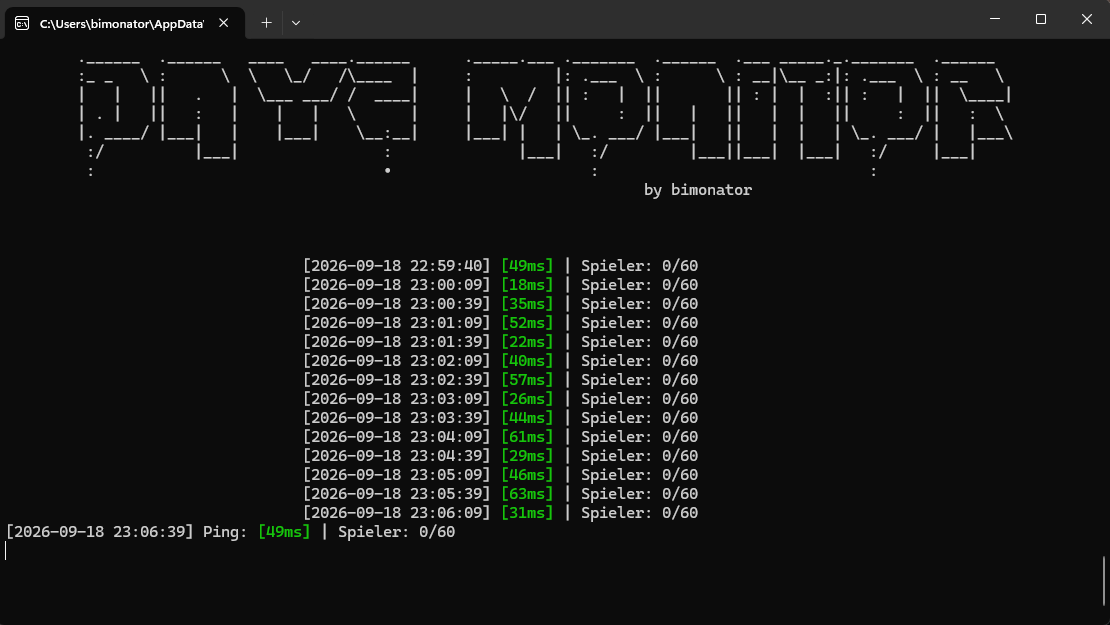
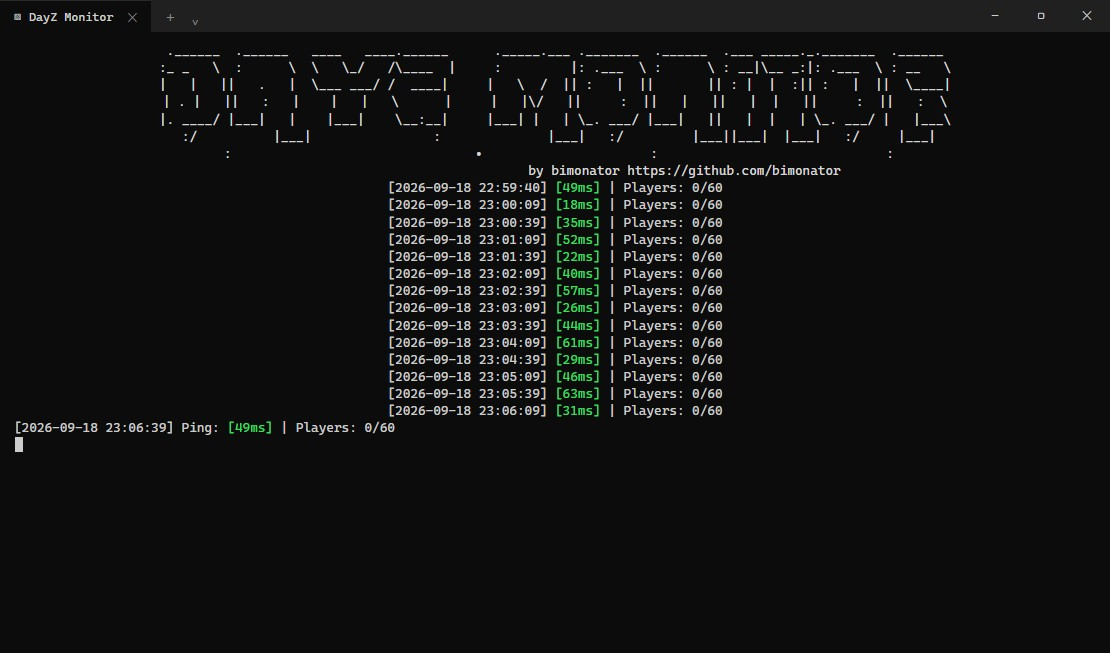
Tidy up: neutral example city and refreshed monitor screenshot
- README/dayz_report: use Frankfurt instead of Falkenstein as the
  generic Europe example
- screenshots/monitor.jpg: regenerate with the English CLI output
  (Players instead of Spieler) and a neutral window title

diff --git a/dayz_report.py b/dayz_report.py
@@ -729,7 +729,7 @@ EUROPE_BORDERS = [
 # is missing, only Europe is available - the report still works.
 #
 # Which region gets drawn depends on the geo-located server: a server in
-# Falkenstein shows Europe, one in Dallas shows North America. See
+# Frankfurt shows Europe, one in Dallas shows North America. See
 # select_region().
 
 def shapes_bbox(shapes):

diff --git a/README.md b/README.md
@@ -217,7 +217,7 @@ Four regions ship with it, and the one you get follows your server:
 
 | Region | Covers | Picked for a server in |
 |---|---|---|
-| `europe` | Iceland to the Urals, hand-drawn | Falkenstein, Amsterdam, Warsaw |
+| `europe` | Iceland to the Urals, hand-drawn | Frankfurt, Amsterdam, Warsaw |
 | `north_america` | Alaska to Panama, plus the Caribbean | Dallas, Montreal, Los Angeles |
 | `asia` | Turkey to Japan, down to Indonesia | Tokyo, Singapore, Mumbai |
 | `africa` | the whole continent plus Madagascar | Johannesburg, Lagos, Cairo |
